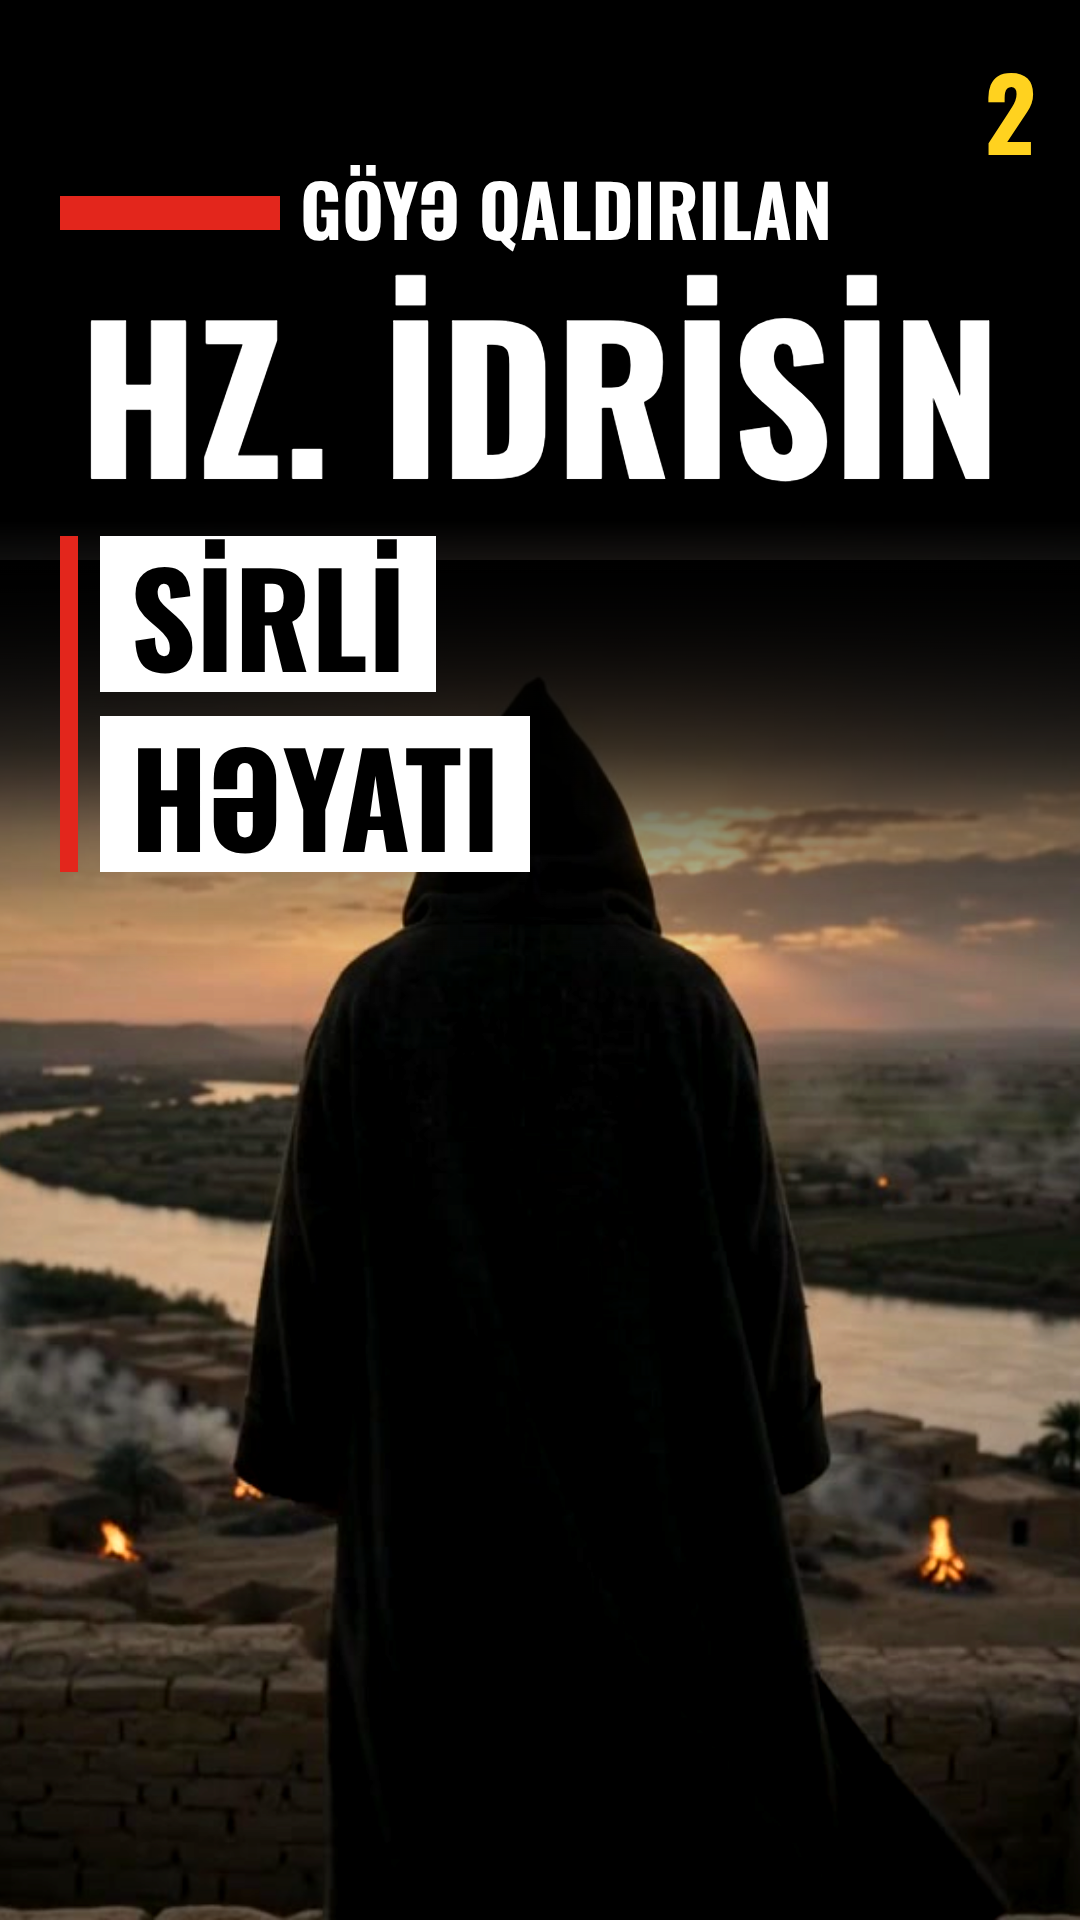
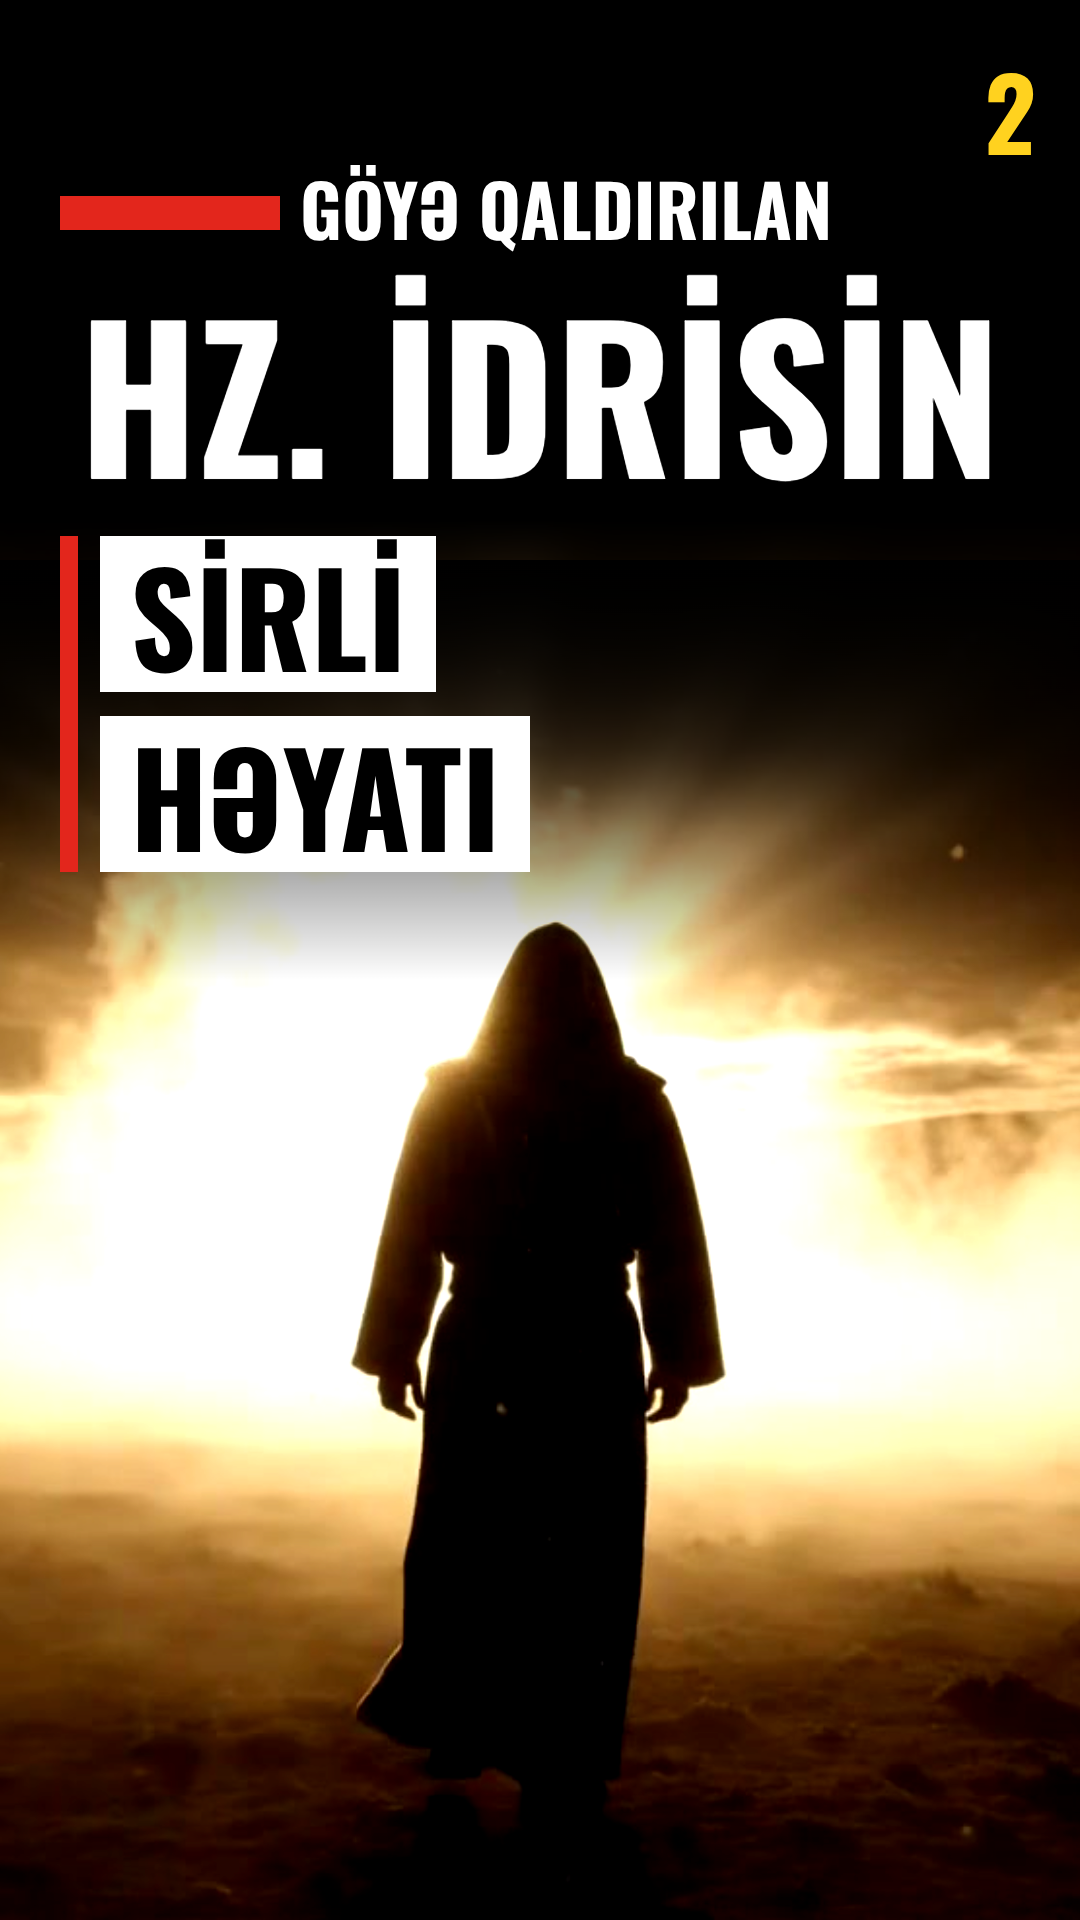
EP2 thumbnails: brighter light-silhouette image
Claude-Session: https://claude.ai/code/session_01T8pqt7jT1geX646rxctNS5

diff --git a/projects/peygemberler/src/Root.tsx b/projects/peygemberler/src/Root.tsx
@@ -49,8 +49,8 @@ export const RemotionRoot: React.FC = () => (
       <Composition id="ThumbC" component={Thumbnail2} durationInFrames={1} fps={30} width={1280} height={720} />
       <Composition id="ThumbD" component={Thumbnail3} durationInFrames={1} fps={30} width={1280} height={720} />
       <Composition id="ThumbE" component={Thumbnail3} durationInFrames={1} fps={30} width={1280} height={720} defaultProps={{img: 'media/ep1/thumb_hand.jpg', full: true}} />
-      <Composition id="ThumbIdris" component={Thumbnail3} durationInFrames={1} fps={30} width={1280} height={720} defaultProps={{img: 'media/ep2/thumb_zigg.jpg', full: true, top: 'GÖYƏ QALDIRILAN', name: 'HZ. İDRİSİN', l1: 'SİRLİ', l2: 'HƏYATI', num: '2', shift: 340, nameTop: 138, nameSize: 164}} />
-      <Composition id="ThumbVIdris" component={ThumbVertical} durationInFrames={1} fps={30} width={1080} height={1920} defaultProps={{img: 'media/ep2/thumb_zigg.jpg', imgLeft: -704, top: 'GÖYƏ QALDIRILAN', name: 'HZ. İDRİSİN', l1: 'SİRLİ', l2: 'HƏYATI', num: '2', dy: 26}} />
+      <Composition id="ThumbIdris" component={Thumbnail3} durationInFrames={1} fps={30} width={1280} height={720} defaultProps={{img: 'media/ep2/thumb_light.jpg', full: true, top: 'GÖYƏ QALDIRILAN', name: 'HZ. İDRİSİN', l1: 'SİRLİ', l2: 'HƏYATI', num: '2', shift: 340, nameTop: 138, nameSize: 164}} />
+      <Composition id="ThumbVIdris" component={ThumbVertical} durationInFrames={1} fps={30} width={1080} height={1920} defaultProps={{img: 'media/ep2/thumb_light.jpg', imgLeft: -779, top: 'GÖYƏ QALDIRILAN', name: 'HZ. İDRİSİN', l1: 'SİRLİ', l2: 'HƏYATI', num: '2', dy: 26}} />
       <Composition id="ThumbV" component={ThumbVertical} durationInFrames={1} fps={30} width={1080} height={1920} />
       <Composition id="Ep2Trailer" component={Trailer} durationInFrames={Math.round(TRAILER_DUR * FPS)} fps={FPS} width={1920} height={1080} />
       {[
